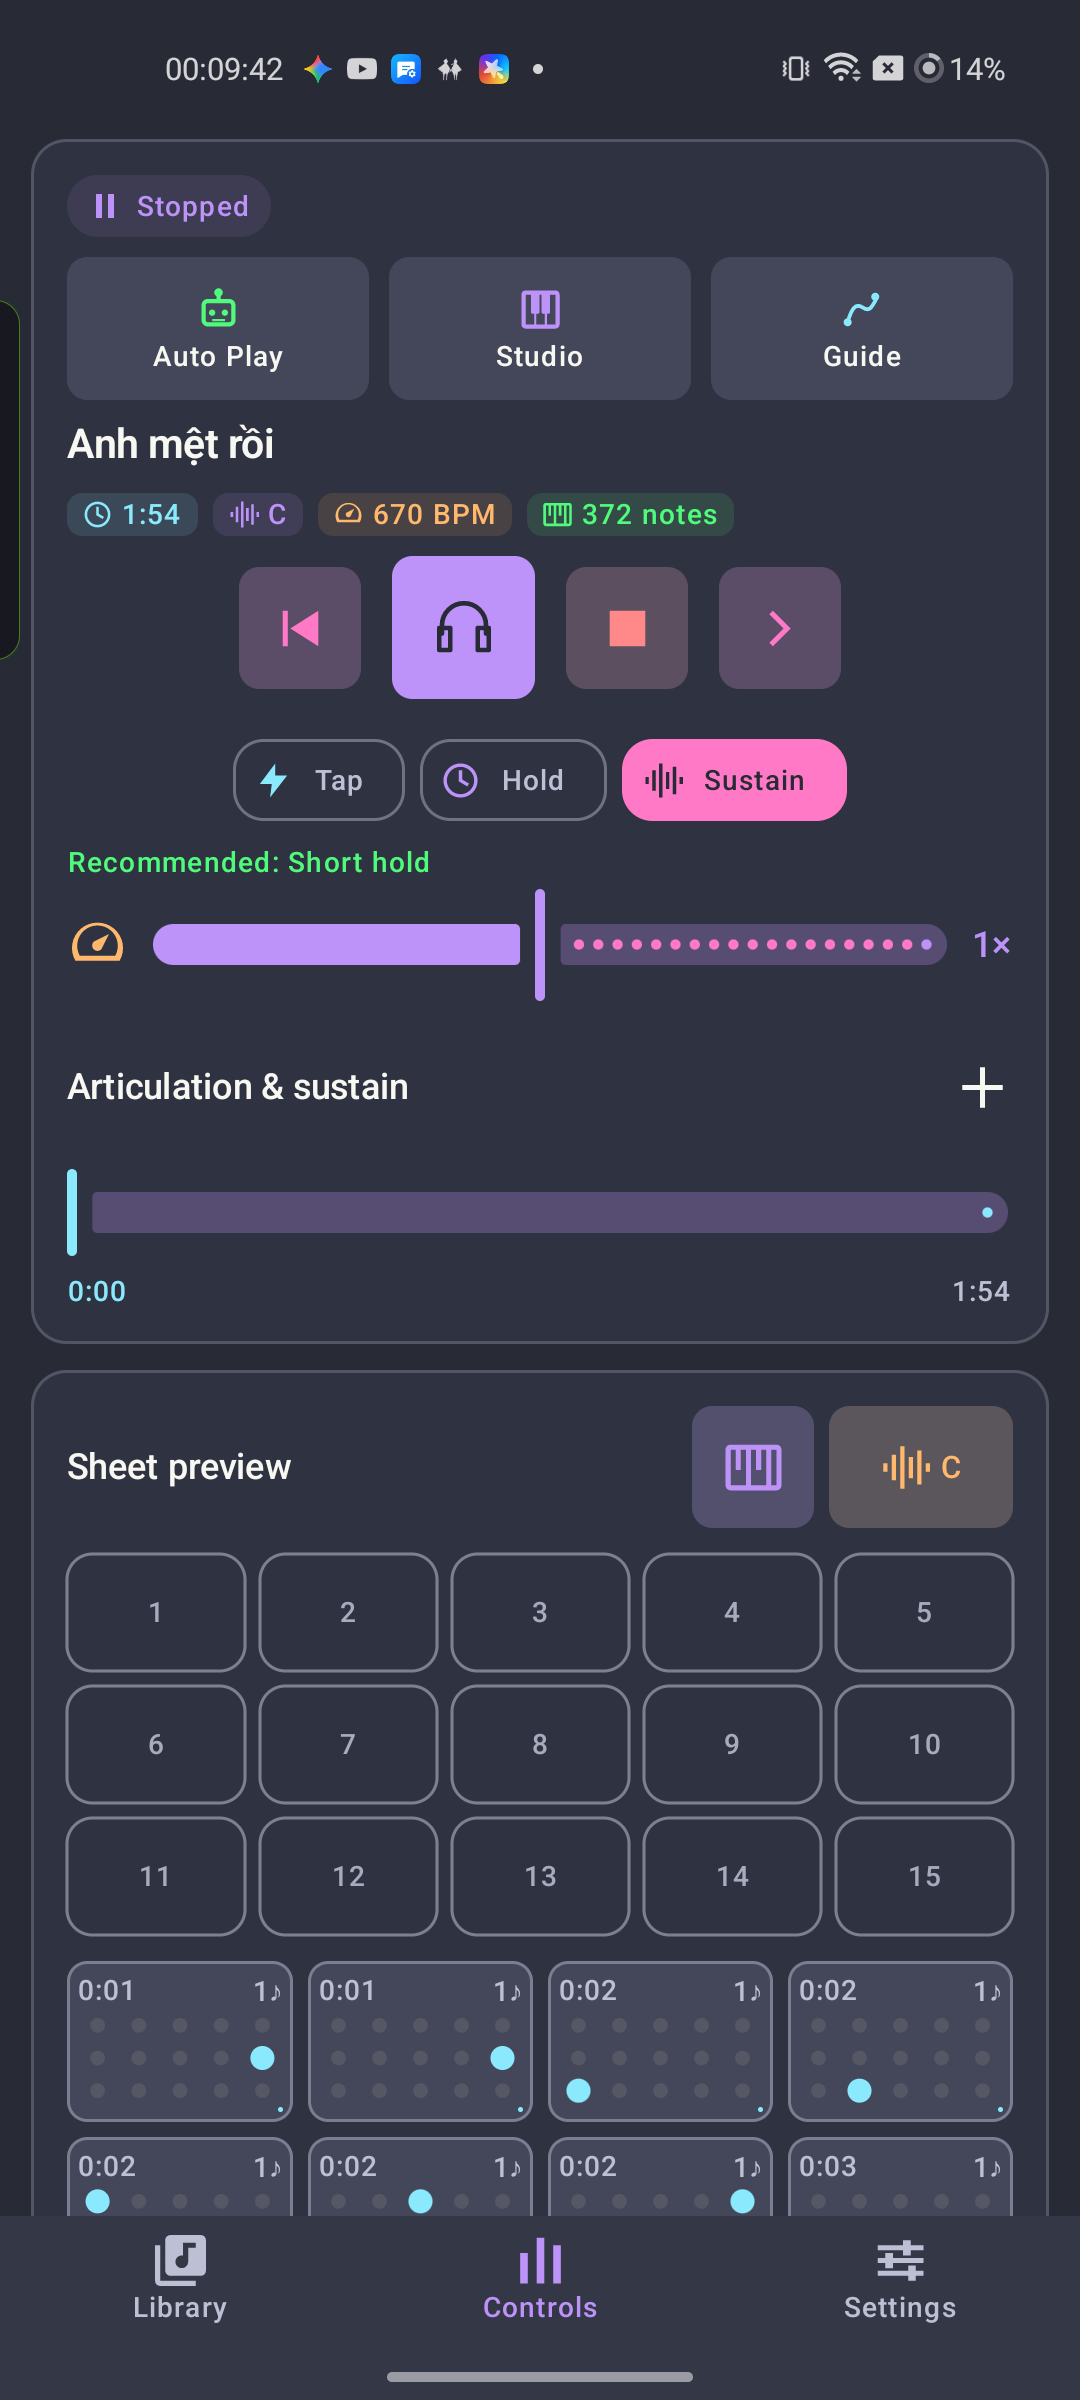
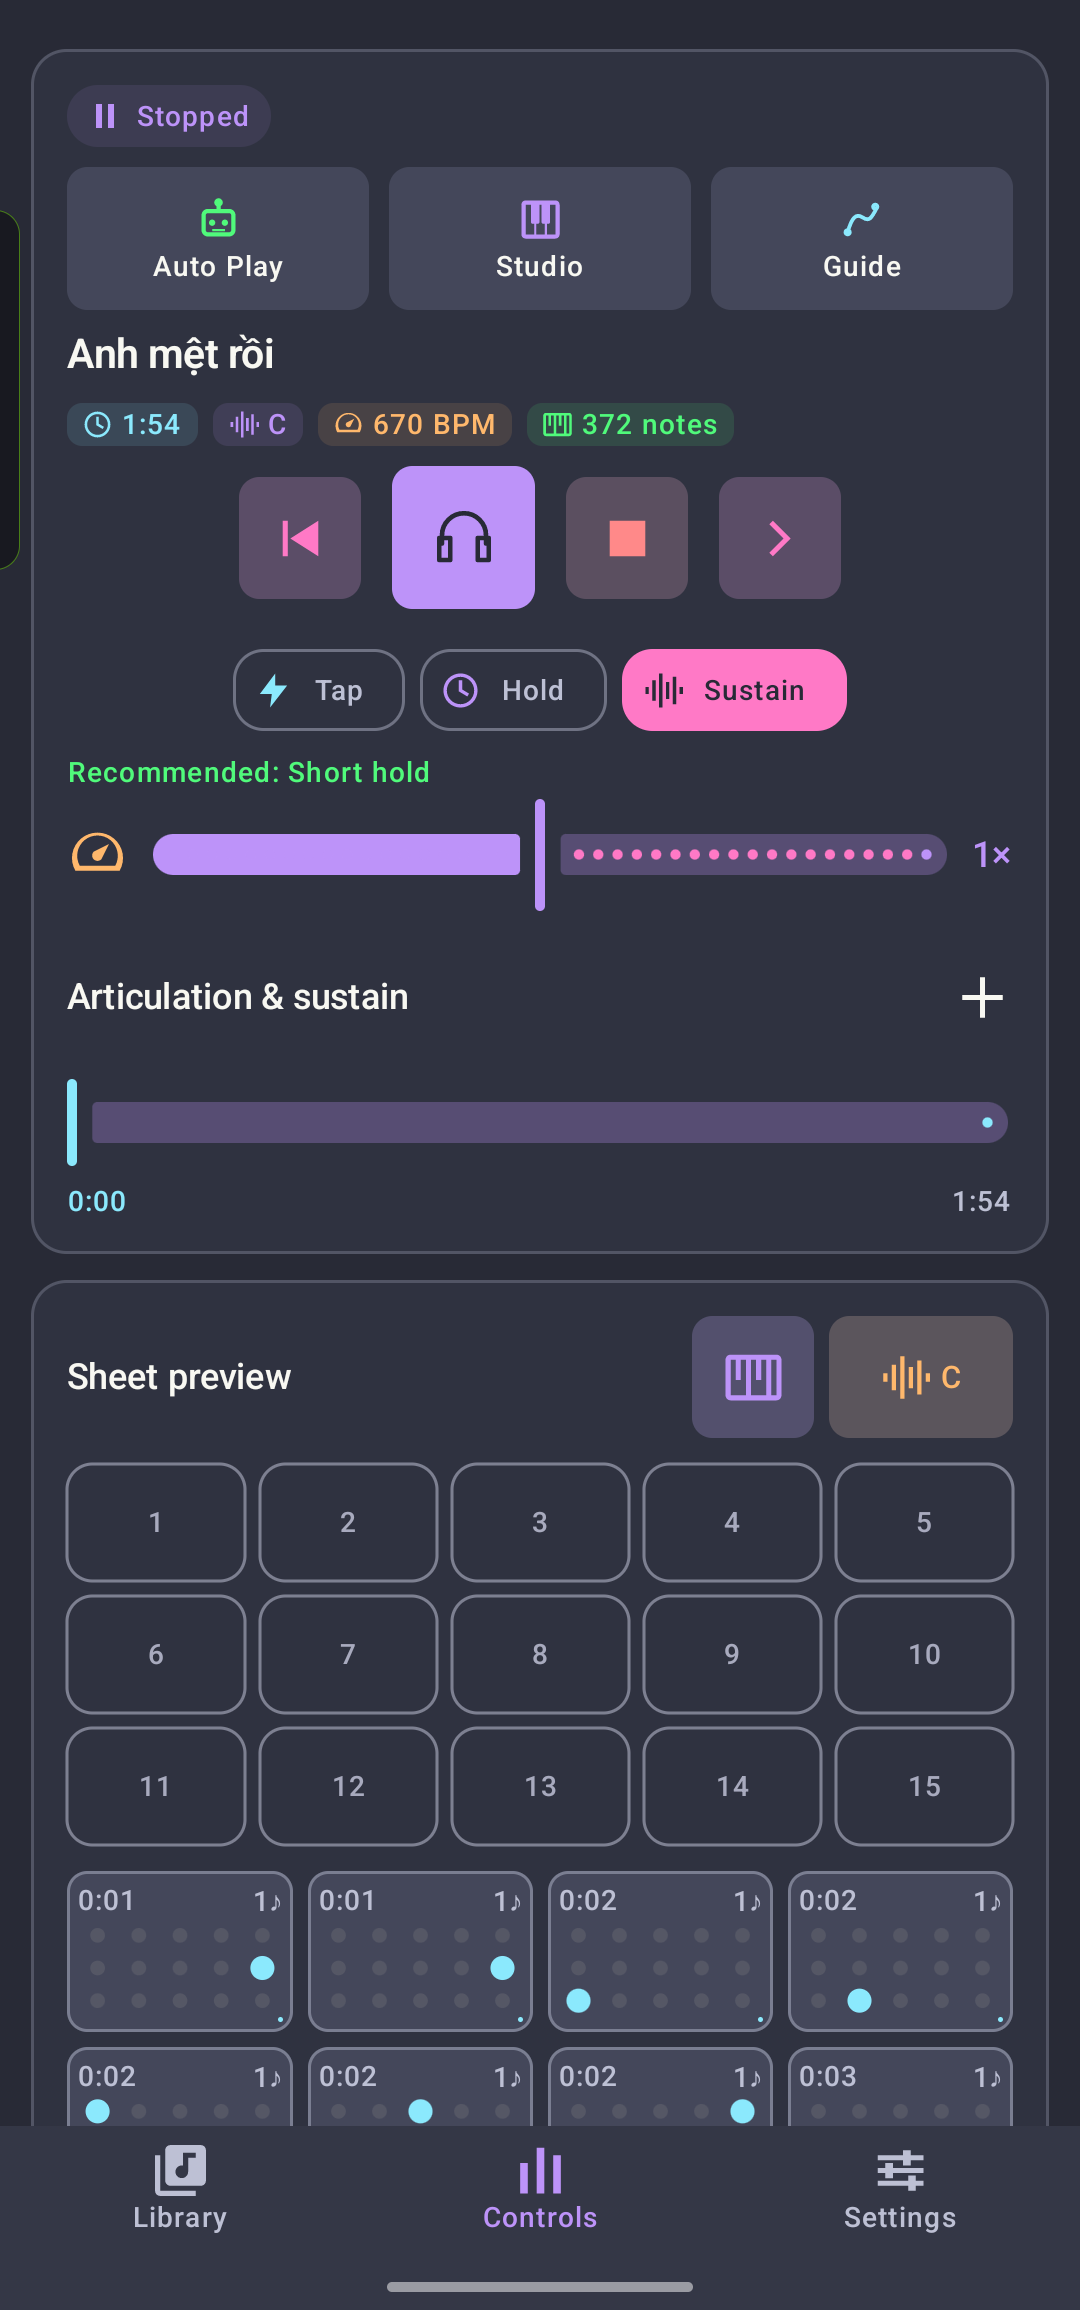
docs: polish commercial English showcase and crop status bar from screenshots

diff --git a/README.md b/README.md
@@ -1,58 +1,79 @@
+<div align="center">
+
 # HEURIX FLOW
 
-**Trợ lý chơi nhạc tự động & luyện đàn 15 phím dành cho *Sky: Children of the Light***
+### The Next-Generation Musical Companion & 15-Key Practice Studio for *Sky: Children of the Light*
 
-HEURIX FLOW giúp bạn thưởng thức và luyện tập những bản nhạc yêu thích ngay trong thế giới Sky với độ mượt tự nhiên, thao tác điều khiển nổi tối giản không che khuất tầm nhìn, cùng không gian luyện đàn 15 phím riêng ngay trong ứng dụng.
+Perform expressive arrangements effortlessly in-game, curate thousands of sheets in seconds, and master any melody with interactive visual guidance — all inside a sleek, distraction-free experience.
 
----
+[![Release](https://img.shields.io/badge/Release-v0.2.0--beta.1-ff79c6?style=for-the-badge)](https://github.com/nguyendevwk/heurix-flow-beta/releases/tag/beta-v0.2.0)
+[![Platform](https://img.shields.io/badge/Platform-Android%209%2B-8be9fd?style=for-the-badge)](https://github.com/nguyendevwk/heurix-flow-beta/releases)
+[![Languages](https://img.shields.io/badge/Languages-English%20%7C%20Ti%E1%BA%BFng%20Vi%E1%BB%87t-bd93f9?style=for-the-badge)](#-key-highlights)
 
-## Tính năng nổi bật
-
-- **Thư viện nhạc thông minh & mượt mà**
-  - Tìm kiếm tức thì theo tên bài, lọc nhanh theo **Yêu thích**, **Gần đây** hoặc **Danh mục** cá nhân.
-  - Hiển thị trực quan thời lượng, tông nhạc, nhịp độ (BPM), số lớp nhạc và chế độ chơi phù hợp cho từng bài.
-  - Nghe thử giai điệu trước khi phát ngay trong thư viện; hỗ trợ nhập từng bài hoặc cả thư mục nhạc nhanh chóng.
-
-- **Chơi nhạc tự nhiên với 3 sắc thái**
-  - Hỗ trợ **Chạm nhanh**, **Giữ ngắn** và **Giữ ngân trọn nốt** cho cảm giác biểu diễn có hồn, đúng nhịp.
-  - Dễ dàng điều chỉnh tốc độ chậm/nhanh hoặc bật/tắt từng lớp nhạc (giai điệu chính, bè đệm) theo ý muốn.
-
-- **Bảng điều khiển nổi siêu gọn ngay trên màn hình game**
-  - Hỗ trợ 2 phong cách thao tác linh hoạt theo thói quen của bạn:
-    - **Thanh 2 nút nhanh**: Chạm phát/tạm dừng tức thì 1 chạm và mở bảng điều khiển riêng biệt, không bấm nhầm.
-    - **1 bong bóng thu gọn**: Tối giản diện tích tối đa trên màn hình game; chạm để mở bảng, bấm phát là tự thu nhỏ lại.
-  - Đầy đủ công cụ nhanh ngay trên bảng nổi: tua đoạn, đổi tốc độ, chọn **Lặp 1 lần / Lặp vô hạn**, **Tự động chuyển bài kế tiếp** và đổi bài nhanh.
-  - Tự động tạm dừng an toàn khi bạn chạm vào màn hình hoặc thoát ra ngoài để không gây rối thao tác trong game.
-
-- **Không gian luyện đàn trực quan (Studio 15 phím)**
-  - Chuyển đổi nhiều âm sắc nhạc cụ quen thuộc (Piano, Harp, Flute, Guitar, Violin).
-  - Có chế độ dẫn nốt trực quan và tập theo từng bước giúp bạn dễ dàng tự đánh lại bài hát yêu thích.
-
-- **Hỗ trợ song ngữ đầy đủ**: Giao diện hoàn chỉnh bằng **Tiếng Việt** và **Tiếng Anh**.
+</div>
 
 ---
 
-## Hình ảnh thực tế trên ứng dụng
+## ✨ Why Players Love HEURIX FLOW
 
-| Thư viện nhạc | Bảng điều khiển |
-| :---: | :---: |
-| <img src="screenshots/library.png" width="260" alt="Thư viện nhạc HEURIX FLOW" /> | <img src="screenshots/controls.png" width="260" alt="Màn hình điều khiển HEURIX FLOW" /> |
+### 🎵 Expressive Performance, Never Robotic
+Bring every song to life with three natural touch styles — **Quick Tap**, **Short Hold**, and **Full Sustain**. Fine-tune playback speed from slow practice tempos to full performance pace, and toggle individual melody or accompaniment layers on the fly.
 
-| Cài đặt & Tùy biến | Studio luyện đàn 15 phím |
-| :---: | :---: |
-| <img src="screenshots/settings.png" width="260" alt="Cài đặt HEURIX FLOW" /> | <img src="screenshots/studio.png" width="380" alt="Studio luyện đàn 15 phím" /> |
+### 🫧 Unobtrusive Floating Overlay Built for Gameplay
+Keep your focus on the world around you with a whisper-thin floating controller that never gets in the way:
+- **Two Signature Control Styles**: Switch anytime between the ultra-fast **2-Button Quick Pill** (instant one-tap Play/Pause alongside a dedicated Menu trigger) or the minimalist **Single Bubble** mode.
+- **On-the-Fly Control**: Adjust tempo, scrub through sections, switch tracks, toggle **Repeat (`Off` / `1×` / `Continuous`)**, or enable **Auto-Play Next** directly from the floating panel without ever leaving the game.
+- **Smart Interruption Protection**: Automatically steps aside the moment you touch the game screen or switch apps, keeping your movement and camera seamless.
+
+### 📚 Instant Library for Massive Collections
+Effortlessly browse thousands of sheets with zero stutter. Search instantly by title, filter by **Favorites**, **Recent**, or custom **Categories**, inspect BPM, musical key, duration, and layers at a glance, and audition melodies with built-in audio preview before you play.
+
+### 🎹 Built-in 15-Key Instrument Studio
+Practice offline anytime with realistic instrument voices (**Piano**, **Harp**, **Flute**, **Guitar**, and **Violin**). Follow falling note trails and step-by-step visual cues to learn songs by heart before performing live with friends.
 
 ---
 
-## Hai phiên bản phát hành Beta
+## 📱 Product Showcase
 
-1. **Bản Tiêu chuẩn (Gọn nhẹ)**: Dành cho bạn muốn cài nhanh, nhẹ máy và tự thêm các bản nhạc riêng.
-2. **Bản Tích hợp sẵn kho nhạc**: Bộ sưu tập hàng nghìn bản nhạc đã được đóng gói sẵn ngay trong ứng dụng — cài đặt và mở lên là có thể thưởng thức ngay mà không cần tải thêm tệp rời.
+<div align="center">
+
+| Music Library | Playback Controls | Preferences & Customization |
+| :---: | :---: | :---: |
+| <img src="screenshots/library.png" width="230" alt="HEURIX FLOW Music Library" /> | <img src="screenshots/controls.png" width="230" alt="HEURIX FLOW Playback Controls" /> | <img src="screenshots/settings.png" width="230" alt="HEURIX FLOW Settings" /> |
+
+<br />
+
+| 15-Key Practice Studio |
+| :---: |
+| <img src="screenshots/studio.png" width="640" alt="HEURIX FLOW 15-Key Studio" /> |
+
+</div>
 
 ---
 
-## Bắt đầu nhanh trong 3 bước
+## 📦 Choose Your Beta Edition
 
-1. **Cài đặt ứng dụng** và mở lên (cần kết nối mạng ở lần đầu để xác nhận bản thử nghiệm hợp lệ và kiểm tra cập nhật mới).
-2. Vào mục **Cài đặt** → cấp quyền **Hiển thị trên ứng dụng khác** và **Trợ năng**, sau đó mở game và **Căn chỉnh 15 phím** khớp với đàn trong game.
-3. Chọn bài nhạc yêu thích, nhấn **Phát** trên bảng điều khiển nổi và thưởng thức.
+Both editions include the full feature set and receive automatic in-app update checks:
+
+| Edition | Download Package | Best For |
+| :--- | :--- | :--- |
+| **Standard Edition** *(Lightweight)* | `heurix-flow-0.2.0-beta.1-no-sheets.apk` | Players who prefer a compact install and already maintain their own personal song collection. |
+| **Full Pack Edition** *(Pre-Loaded Library)* | `heurix-flow-0.2.0-beta.1-with-sheets.apk` | Players who want **7,150+ ready-to-play sheets** built right into the app — install once, open, and play immediately with no separate file extraction required. |
+
+👉 **[Download from the Beta Release Page](https://github.com/nguyendevwk/heurix-flow-beta/releases/tag/beta-v0.2.0)**
+
+---
+
+## 🚀 Getting Started in 3 Simple Steps
+
+1. **Install & Verify**: Open **HEURIX FLOW** while connected to the internet on first launch to verify your beta access and stay up to date with new releases.
+2. **Quick Setup**: Enable the floating display and Accessibility permissions inside **Settings**, then align the 15-key layout once to match your device screen.
+3. **Play Anywhere**: Pick any song from your library, tap **Play** on the floating controller inside *Sky*, and enjoy.
+
+---
+
+## 🌐 Bilingual Experience
+
+Full interface support in **English** and **Vietnamese (Tiếng Việt)** — switch seamlessly anytime in Settings.
+
+> *Beta Preview Notice: Access and updates are managed centrally through this release channel. When a mandatory update is released or a beta cycle concludes, the app will guide you directly to the latest version.*
